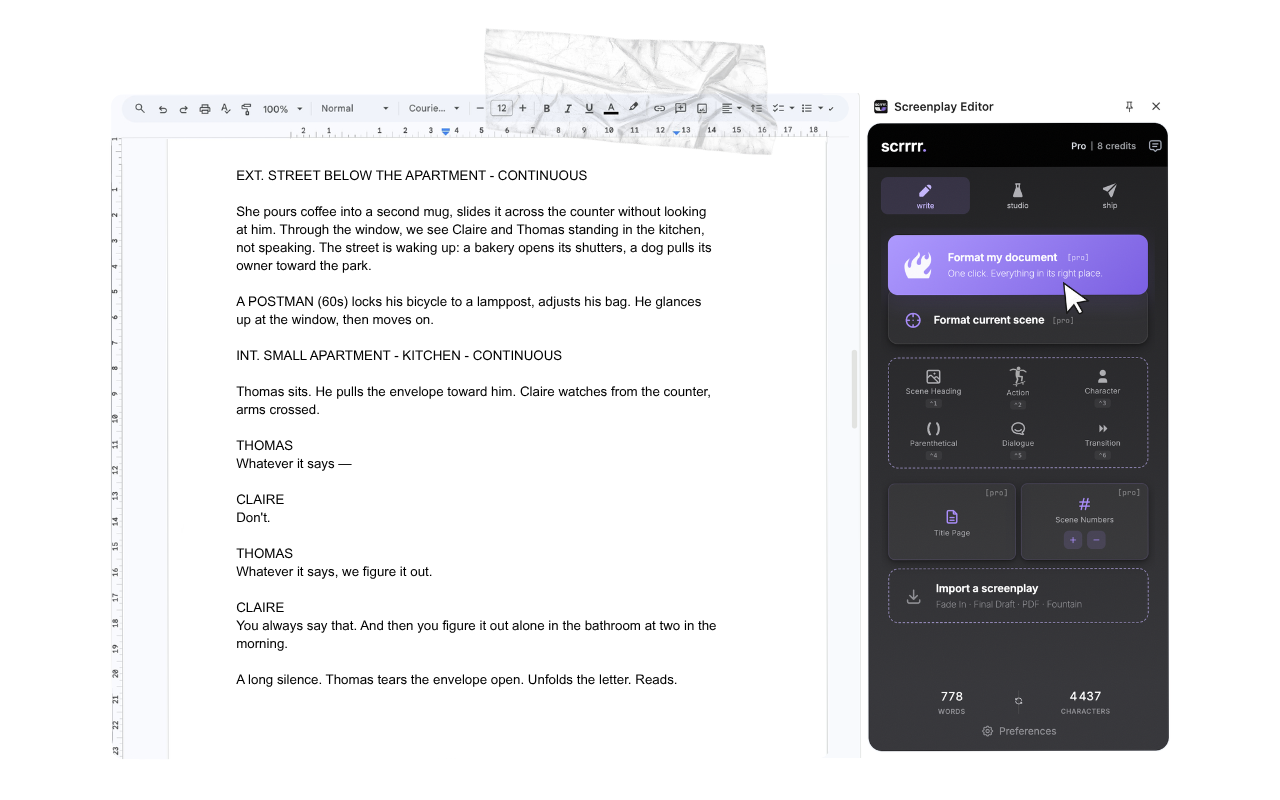
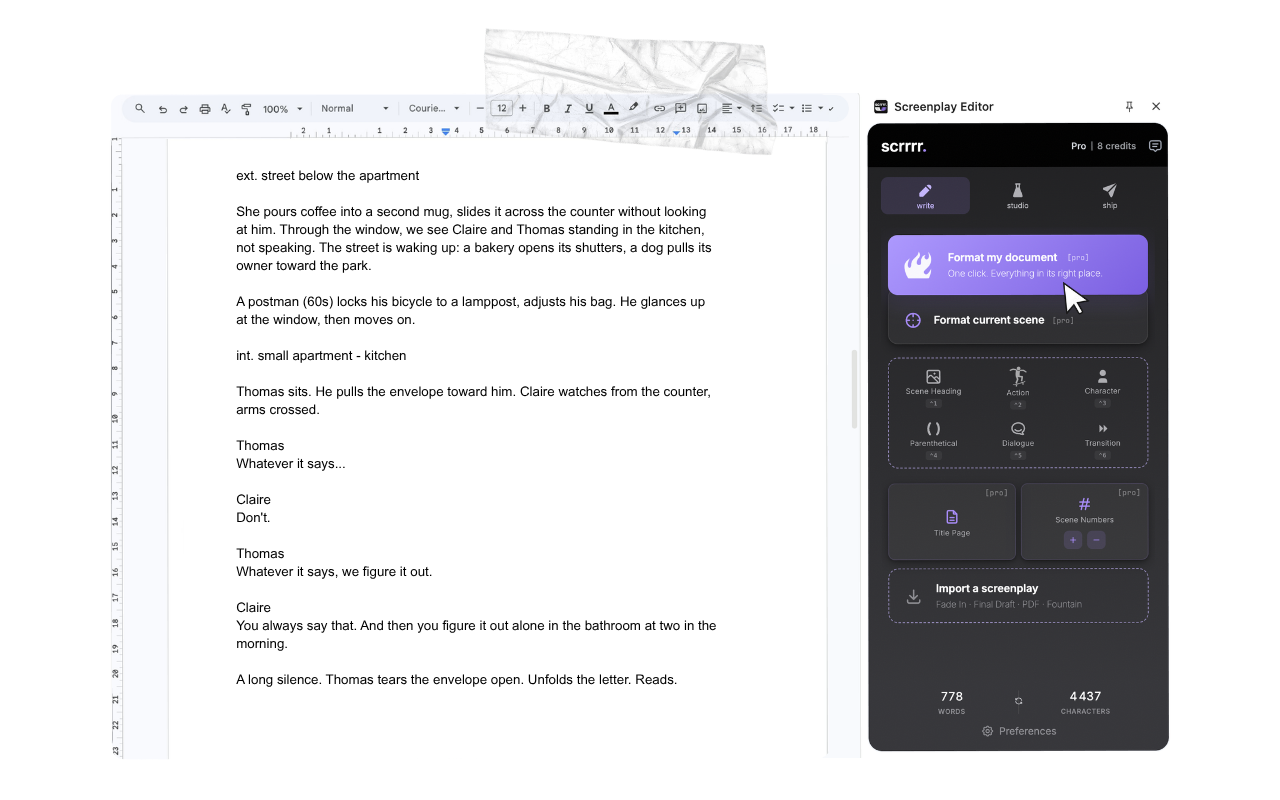
Landing: new before image + clamp slider knob so it's never clipped at edges

diff --git a/index.html b/index.html
@@ -1021,8 +1021,9 @@
       if (!s) return;
       function setPos(clientX) {
         var r = s.getBoundingClientRect();
+        var m = 24 / r.width * 100; // keep the round knob fully inside the frame
         var p = (clientX - r.left) / r.width * 100;
-        s.style.setProperty('--pos', Math.max(0, Math.min(100, p)) + '%');
+        s.style.setProperty('--pos', Math.max(m, Math.min(100 - m, p)) + '%');
       }
       s.addEventListener('pointermove', function (e) { setPos(e.clientX); });
       s.addEventListener('pointerdown', function (e) { setPos(e.clientX); });